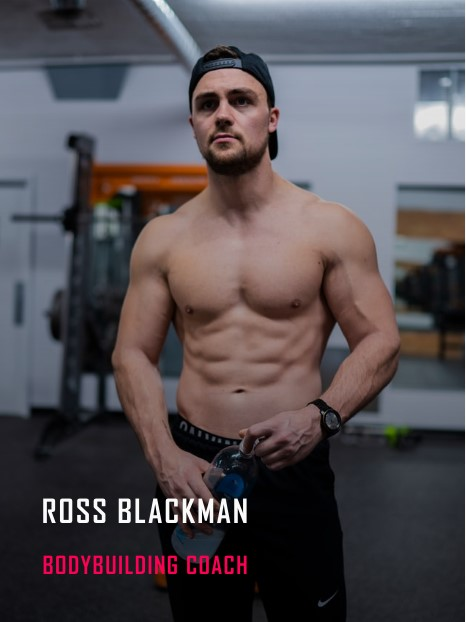
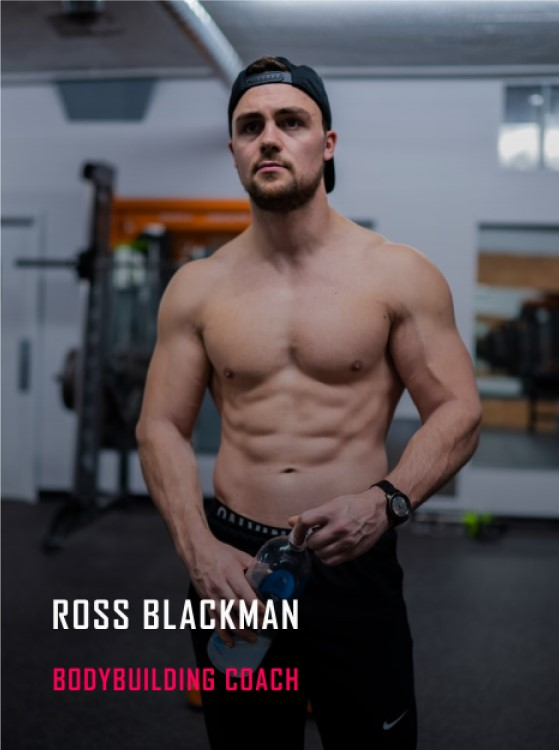
made coaches page

diff --git a/src/layouts/header/header.module.scss b/src/layouts/header/header.module.scss
@@ -1,0 +1,59 @@
+.header {
+    display: grid;
+    position: absolute;
+    margin-left: 5vw;
+    z-index: 9999;
+    background-color: #2b2024;
+    width: 90vw;
+    height: 138px;
+    align-items: center;
+    grid-template-columns: repeat(10, 1fr);
+
+    .header__icon {
+        display: flex;
+        align-items: center;
+        flex-direction: column;
+        justify-content: center;
+        color: #FFF;
+        font-family: Alatsi;
+        font-size: 24px;
+        font-style: normal;
+        font-weight: 400;
+        line-height: normal;
+        text-decoration: none;
+        background-color: #FD0054;
+        height: 100%;
+    }
+
+    .header__link {
+        display: flex;
+        justify-content: center;
+        color: #FFF;
+        font-family: Alatsi;
+        font-size: 32px;
+        font-style: normal;
+        font-weight: 400;
+        line-height: normal;
+        text-decoration: none;
+    }
+
+    .signUp__link {
+        display: flex;
+        align-items: center;
+        justify-content: center;
+        color: #FFF;
+        font-family: Alatsi;
+        font-size: 32px;
+        font-style: normal;
+        font-weight: 400;
+        line-height: normal;
+        text-decoration: none;
+        background-color: #FD0054;
+        height: 100%;
+    }
+
+    .signUp__link {
+        grid-column: 9/11;
+    }
+
+}

diff --git a/src/styles/coaches.module.scss b/src/styles/coaches.module.scss
@@ -1,6 +1,57 @@
 .box {
     position: relative;
-    background-color: rgb(82, 82, 129);
     width: 100vw;
-    height: 1000px;
+    height: 950px;
+
+    img {
+        height: 100%;
+        width: 100%;
+        background-color: #fff;
+        filter: grayscale(90%) blur(2px);
+        z-index: 2;
+    }
+
+    h1 {
+        position: absolute;
+        top: 50%;
+        left: 50%;
+        transform: translate(-50%, -50%);
+        color: #FFF;
+        font-family: Alatsi;
+        font-size: 48px;
+        font-style: normal;
+        font-weight: 400;
+        line-height: normal;
+        display: flex;
+        align-items: center;
+    }
+
+    h2 {
+        position: absolute;
+        top: 50%;
+        left: 50%;
+        transform: translate(-50%, 70%);
+        color: #FFF;
+        font-family: Alatsi;
+        font-size: 24px;
+        font-style: normal;
+        font-weight: 400;
+        line-height: normal;
+    }
+}
+
+.box2 {
+    display: flex;
+    align-items: center;
+    justify-content: center;
+    position: relative;
+    background-color: #fafafa;
+    width: 100vw;
+    height: 1638px;
+}
+
+.coaches__grid {
+    display: grid;
+    grid-template-columns: repeat(3, 1fr);
+    gap: 3vw;
 }

diff --git a/src/layouts/header/index.tsx b/src/layouts/header/index.tsx
@@ -2,16 +2,32 @@ import Link from "next/link";
 import s from "./header.module.scss";
 
 const Header = () => {
-  return (
+	return (
 		<>
-			<div className={s.header}>
-        <nav>
-          <Link href="/">home</Link>
-          <Link href="./coaches">coaches</Link>
-        </nav>
-      </div>
+			<header className={s.header}>
+				<div className={s.header__icon}>
+					<img src="dumpbell2.svg" alt="" />
+					<p>ANGEL FIT</p>
+				</div>
+				<div></div>
+				<div></div>
+				<Link className={s.header__link} href="/">
+					HOME
+				</Link>
+				<Link className={s.header__link} href="./coaches">
+					COACHES
+				</Link>
+				<Link className={s.header__link} href="/">
+					ARTICLES
+				</Link>
+				<div></div>
+				<div></div>
+				<Link className={s.signUp__link} href="/">
+					GET STARTED FOR FREE
+				</Link>
+			</header>
 		</>
-  );
+	);
 };
 
 export default Header;

diff --git a/src/coaches/coaches.tsx b/src/coaches/coaches.tsx
@@ -1,0 +1,22 @@
+import CoachList from "@/components/CoachList";
+import { useState, useEffect } from "react";
+import s from "@/styles/coaches.module.scss";
+
+const coaches = () => {
+	return (
+		<>
+			<div className={s.box}>
+				<img src="gymBackground.jpg" alt="" />
+				<h1>OUR COACHES</h1>
+				<h2>PAGES - COACHES</h2>
+			</div>
+			<div className={s.box2}>
+				<div className={s.coaches__grid}>
+					<CoachList />
+				</div>
+			</div>
+		</>
+	);
+};
+
+export default coaches;

diff --git a/src/components/CoachItem.tsx b/src/components/CoachItem.tsx
@@ -1,14 +1,11 @@
-import coachInfo from "@/pages/coachInfo";
+import coachInfo from "@/coaches/[coachId]/coachInfo";
 import Link from "next/link";
 
 const CoachItem = ({ item }) => {
-	console.log(item);
 	return (
-		<div>
-			<Link href="./coachInfo">
-				<img src={item.imgURL} />
-			</Link>
-		</div>
+		<Link href="./coaches">
+			<img src={item.imgURL} />
+		</Link>
 	);
 };
 

diff --git a/src/styles/globals.scss b/src/styles/globals.scss
@@ -5,3 +5,7 @@
     margin: 0;
     padding: 0;
 }
+
+body {
+    overflow-x: hidden;
+}
